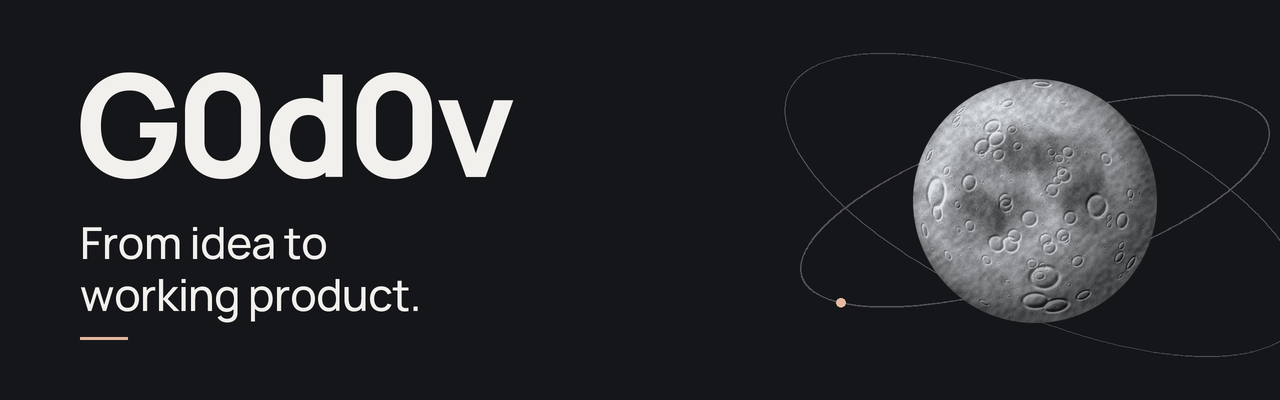
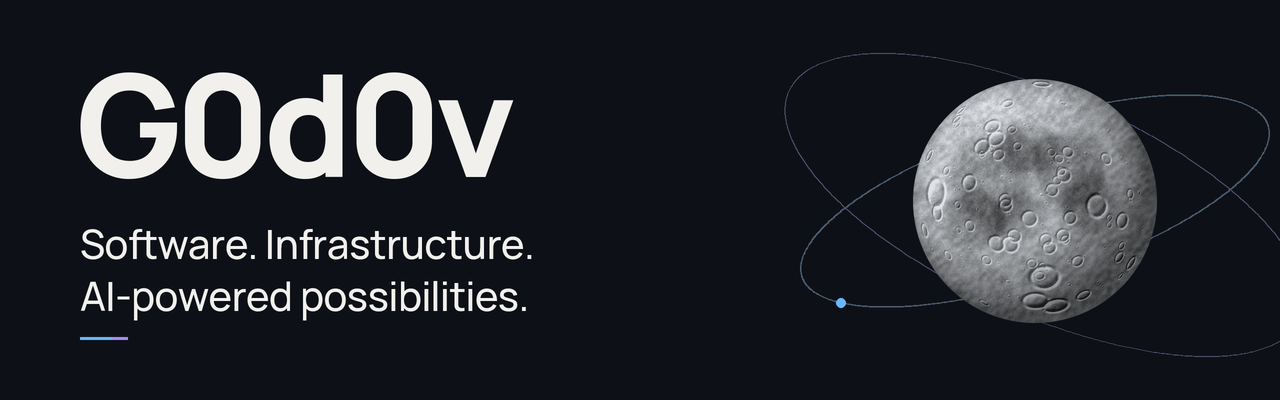
feat: present software, infrastructure and AI work across the profile

Changed region(s): [[0.0625, 0.57, 0.4062, 0.66], [0.0625, 0.69, 0.4062, 0.81], [0.0625, 0.84, 0.0938, 0.87]]

diff --git a/scripts/render_header.py b/scripts/render_header.py
@@ -19,15 +19,17 @@ import subprocess
 import tempfile
 
 import numpy as np
-from PIL import Image, ImageDraw, ImageFont
+from PIL import Image, ImageDraw, ImageFilter, ImageFont
 
 ROOT = Path(__file__).resolve().parents[1]
 WIDTH, HEIGHT, SCALE = 1280, 400, 2
 FPS, SECONDS = 20, 8
-BG = (21, 22, 25)
+BG = (13, 17, 23)
 TEXT = (242, 240, 237)
-ORBIT = (86, 83, 88)
-PEACH = (230, 184, 162)
+ORBIT = (75, 91, 111)
+ORBIT_SECONDARY = (91, 79, 116)
+BLUE = (105, 183, 255)
+PURPLE = (167, 139, 250)
 RESAMPLE = Image.Resampling.LANCZOS
 
 
@@ -74,10 +76,11 @@ def text_layer(font_path: Path) -> Image.Image:
     # Align the visible cap height at y=72, independent of font ascent metadata.
     baseline = 72 - title.getbbox("G0d0v", anchor="ls")[1] / SCALE
     tracked(draw, "G0d0v", (76, baseline), title, -142 * 0.045)
-    body = font_at(font_path, 44, 500)
-    tracked(draw, "From idea to", (80, 259), body, -44 * 0.015)
-    tracked(draw, "working product.", (80, 311), body, -44 * 0.015)
-    draw.rectangle((80*SCALE, 337*SCALE, 128*SCALE-1, 340*SCALE-1), fill=PEACH)
+    body = font_at(font_path, 40, 500)
+    tracked(draw, "Software. Infrastructure.", (80, 259), body, -40 * 0.015)
+    tracked(draw, "AI-powered possibilities.", (80, 311), body, -40 * 0.015)
+    draw.rectangle((80*SCALE, 337*SCALE, 112*SCALE-1, 340*SCALE-1), fill=BLUE)
+    draw.rectangle((112*SCALE, 337*SCALE, 128*SCALE-1, 340*SCALE-1), fill=PURPLE)
     return image
 
 
@@ -153,22 +156,22 @@ def orbit_point(theta, a, b, angle, center):
     return center[0] + c*u-s*v, center[1] + s*u+c*v
 
 
-def draw_orbit(layer, a, b, degrees, center, width, front=False):
+def draw_orbit(layer, a, b, degrees, center, width, front=False, color=ORBIT):
     start, stop = (0, math.pi) if front else (0, math.tau)
     points = [orbit_point(start+(stop-start)*i/600, a, b,
                           math.radians(degrees), center) for i in range(601)]
     ImageDraw.Draw(layer).line([(x*SCALE, y*SCALE) for x,y in points],
-                              fill=ORBIT+(255,), width=round(width*SCALE))
+                              fill=color+(255,), width=round(width*SCALE))
 
 
 def graphic_layers(moon):
     size = (WIDTH*SCALE, HEIGHT*SCALE)
     back = Image.new("RGBA", size)
     draw_orbit(back, 245, 78, -18, (1035,201), 1.5)
-    draw_orbit(back, 280, 110, 24, (1045,205), 1.2)
+    draw_orbit(back, 280, 110, 24, (1045,205), 1.2, color=ORBIT_SECONDARY)
     front = Image.new("RGBA", size)
     draw_orbit(front, 245, 78, -18, (1035,201), 1.5, True)
-    draw_orbit(front, 280, 110, 24, (1045,205), 1.2, True)
+    draw_orbit(front, 280, 110, 24, (1045,205), 1.2, True, color=ORBIT_SECONDARY)
     disc = Image.new("RGBA", size)
     disc.paste(moon, (913*SCALE,79*SCALE))
     # Only the parts crossing the lunar disc need a separate foreground arc.
@@ -182,10 +185,15 @@ def frame_at(t, static, layers):
     theta = math.tau*t + .08*math.sin(math.tau*t) + 2.65
     point = orbit_point(theta, 245, 78, math.radians(-18), (1035,201))
     satellite = Image.new("RGBA", static.size)
-    d = ImageDraw.Draw(satellite)
     r = 4.5 + .5*math.sin(theta)
     px, py = point
-    d.ellipse(((px-r)*SCALE, (py-r)*SCALE, (px+r)*SCALE, (py+r)*SCALE), fill=PEACH+(255,))
+    # A low-opacity halo belongs only to the moving node, never to the text or moon.
+    sprite = Image.new("RGBA", (40*SCALE,40*SCALE))
+    bounds = ((20-r)*SCALE,(20-r)*SCALE,(20+r)*SCALE,(20+r)*SCALE)
+    ImageDraw.Draw(sprite).ellipse(bounds, fill=BLUE+(58,))
+    sprite = sprite.filter(ImageFilter.GaussianBlur(2.4*SCALE))
+    ImageDraw.Draw(sprite).ellipse(bounds, fill=BLUE+(255,))
+    satellite.paste(sprite, (round((px-20)*SCALE),round((py-20)*SCALE)))
     back, disc, front = layers
     group = back.copy()
     if math.sin(theta) < 0:
@@ -238,7 +246,7 @@ def main():
         assert gif.n_frames == FPS*SECONDS
         duration = sum(gif.seek(i) or gif.info["duration"] for i in range(gif.n_frames))
         assert duration == SECONDS*1000
-    assert (out / "header.gif").stat().st_size < 8_000_000
+    assert (out / "header.gif").stat().st_size < 5_000_000
     print(f"header.gif: {WIDTH}x{HEIGHT}, {FPS*SECONDS} frames, {duration} ms, "
           f"{(out / 'header.gif').stat().st_size:,} bytes, loop=0")
     print("Font:", font_path.name, "(variable weight 800 / 500 when available)")

diff --git a/README.md b/README.md
@@ -1,28 +1,139 @@
 <picture>
   <source media="(prefers-reduced-motion: reduce)" srcset="assets/header-static.png">
-  <img src="assets/header.gif" alt="G0d0v — From idea to working product. Серебристая луна и плавные орбиты на графитовом фоне." width="1280">
+  <img src="assets/header.gif" alt="G0d0v — Software. Infrastructure. AI-powered possibilities." width="1280">
 </picture>
 
-## Идеи, которые работают.
+# Hi, I'm G0d0v.
 
-Создаю VPN-сервисы, Telegram-ботов и инструменты автоматизации.
-Превращаю сложную инфраструктуру в продукты, которыми удобно пользоваться.
+**Independent Developer · Infrastructure Engineer · AI Builder**
 
-| Связь | Продукт | Автоматизация |
+Building software, engineering infrastructure, and exploring AI-powered technologies.
+
+[About](#about-me) · [Expertise](#areas-of-expertise) · [Stack](#technology-stack) · [Projects](#featured-projects) · [Activity](#github-statistics) · [Contact](#contact)
+
+## About me
+
+I build software products and the systems behind them: backend services, web applications,
+network infrastructure, automation, and local AI tooling.
+
+My work spans independent products, server operations, and open-source development.
+I care about usable interfaces, maintainable systems, and reliable deployment and recovery.
+
+## Areas of expertise
+
+| Software engineering | Infrastructure engineering | AI & automation |
 | :--- | :--- | :--- |
-| VPN и сетевая инфраструктура | Telegram-боты, WebApp и панели управления | Развёртывание, обновления и повседневные задачи |
+| Backend APIs and full-stack web apps | Linux servers and containerised services | Local LLM tooling and voice workflows |
+| Telegram bots, WebApps and admin tools | VPN, proxies and network routing | AI agents and MCP integrations |
+| Product integrations and performance | Deployment, backups and safe updates | Workflow and operations automation |
 
-### В работе
+## Programming languages
 
-**[remnawave-shopbot](https://github.com/G0d0v/remnawave-shopbot)**
+<img src="https://skillicons.dev/icons?i=python,ts,js&theme=dark" alt="Python, TypeScript, JavaScript" height="48">
 
-Доработки Telegram-магазина на базе Remnawave: WebApp, админка и инструменты обновления.
-Основан на открытом проекте [CyberERROR/remnawave-shopbot](https://github.com/CyberERROR/remnawave-shopbot).
+**Python · TypeScript · JavaScript** — detected in my public project repositories by GitHub Linguist.
 
-### Инструменты
+| Category | Technologies | Context |
+| :--- | :--- | :--- |
+| Shell & automation | Bash / Shell, PowerShell, Windows Batch | Detected in public project code |
+| Web technologies | HTML, CSS | Detected in public project code; markup and styling |
+| Query languages | SQL | PostgreSQL, SQLite and MySQL / MariaDB project work |
+| Configuration & infrastructure | Dockerfile, YAML, JSON, TOML | Containers, application configuration and tooling |
+| Additional project experience | PHP, Java | Web and Minecraft ecosystem work, including LunaCORE |
 
-`Python` · `TypeScript` · `React` · `Flask` · `Docker` · `Linux`
+<details>
+<summary>Technology exposure & interests</summary>
+
+Local model serving, Qwen, Qwen3-TTS, agent tools, MCP, API integrations,
+network transports, and deployment automation. These describe areas of work and exploration,
+not a claim of expert proficiency in every tool or language.
+
+</details>
+
+## Technology stack
+
+<img src="https://skillicons.dev/icons?i=python,ts,js,react,nextjs,vue,flask,fastapi,nodejs,tailwind,vite,postgres,sqlite,mysql,linux,ubuntu,docker,nginx,git,githubactions&theme=dark&perline=10" alt="Python, TypeScript, JavaScript, React, Next.js, Vue, Flask, FastAPI, Node.js, Tailwind CSS, Vite, PostgreSQL, SQLite, MySQL, Linux, Ubuntu, Docker, Nginx, Git, GitHub Actions" width="580">
+
+| Area | Selected tools |
+| :--- | :--- |
+| Backend | Python, Flask, FastAPI, Node.js, PHP, REST APIs |
+| Frontend | React, Next.js, Vue 3, TypeScript, Tailwind CSS, Vite |
+| Data | PostgreSQL, SQLite, MySQL / MariaDB |
+| Infrastructure & DevOps | Linux, Ubuntu, Docker, Compose, Nginx, Git, GitHub Actions, VPS, reverse proxies |
+| Networking | Xray, VLESS, SOCKS5 / HTTP proxies, WebSocket, gRPC, XHTTP, Hysteria2 |
+| AI & automation | Local LLMs, Qwen, Qwen3-TTS, AI agents, MCP, workflow automation |
+
+## Featured projects
+
+Selected engineering work, including projects outside my public GitHub repositories.
+Public source links are included where available.
+
+### ADS AVANGARD PLATFORM
+
+An advertising marketplace connecting brands with content creators.
+Product work across marketplace experiences, campaign workflows, and web applications.
+
+### LunaVPN
+
+A VPN product and network-infrastructure workstream, connecting service operations,
+automation, and customer-facing software.
+
+### LunaCORE
+
+A Minecraft ecosystem project spanning a website, administration tools, launcher,
+and server-side integrations.
+
+### Local AI & agent workflows
+
+Local language-model and voice tooling, AI-agent workflows, and MCP integrations.
+An ongoing engineering workstream rather than a single public repository.
+
+### [Remnawave SHOP — godovwwq edition](https://github.com/G0d0v/remnawave-shopbot)
+
+An enhanced edition of Remnawave SHOP featuring a redesigned admin dashboard,
+Telegram WebApp, visual interface builder, RollyPay integration, and safe upstream update tooling.
+
+My engineering work includes interface customisation, backup and rollback tooling,
+Docker operations, and automated checks.
+Based on [CyberERROR/remnawave-shopbot](https://github.com/CyberERROR/remnawave-shopbot);
+the original authors retain credit and the project's MIT notices are preserved.
+
+## GitHub statistics
+
+<img src="assets/github-stats.svg" alt="GitHub statistics: public repositories, contributions, and current and longest contribution streaks" width="640">
+
+<img src="assets/top-languages.svg" alt="Programming language distribution in public project repositories" width="640">
+
+These are GitHub measurements, not proficiency scores. Language totals include upstream code
+in forks and exclude this profile repository. Work outside public GitHub is not represented.
+
+## Contribution activity
+
+<img src="assets/contributions.svg" alt="GitHub contribution calendar for the last year" width="860">
+
+Generated from GitHub's contribution calendar. Statistics are refreshed by this repository's
+[workflow](https://github.com/G0d0v/G0d0v/actions/workflows/profile-stats.yml).
+
+## Current focus
+
+- Building independent software products with a stronger backend and infrastructure foundation.
+- Improving deployment, observability, performance, and recovery workflows.
+- Connecting local AI, voice tooling, agents, and useful everyday automation.
+- Sharing selected engineering work through open source.
+
+## Contact
+
+[GitHub · @G0d0v](https://github.com/G0d0v)
 
 ---
 
-Хороший интерфейс снаружи. Продуманная система внутри.
+<details>
+<summary>About this profile's visuals and data</summary>
+
+The lunar header is an original procedural animation with a static version for reduced-motion
+preferences. Statistics are SVG files stored in this repository, generated with GitHub's REST
+and GraphQL APIs; they do not rely on an external statistics image server.
+Technology icons are provided by [Skill Icons](https://github.com/tandpfun/skill-icons).
+See [profile maintenance](docs/PROFILE_MAINTENANCE.md) for data scope and rendering commands.
+
+</details>
